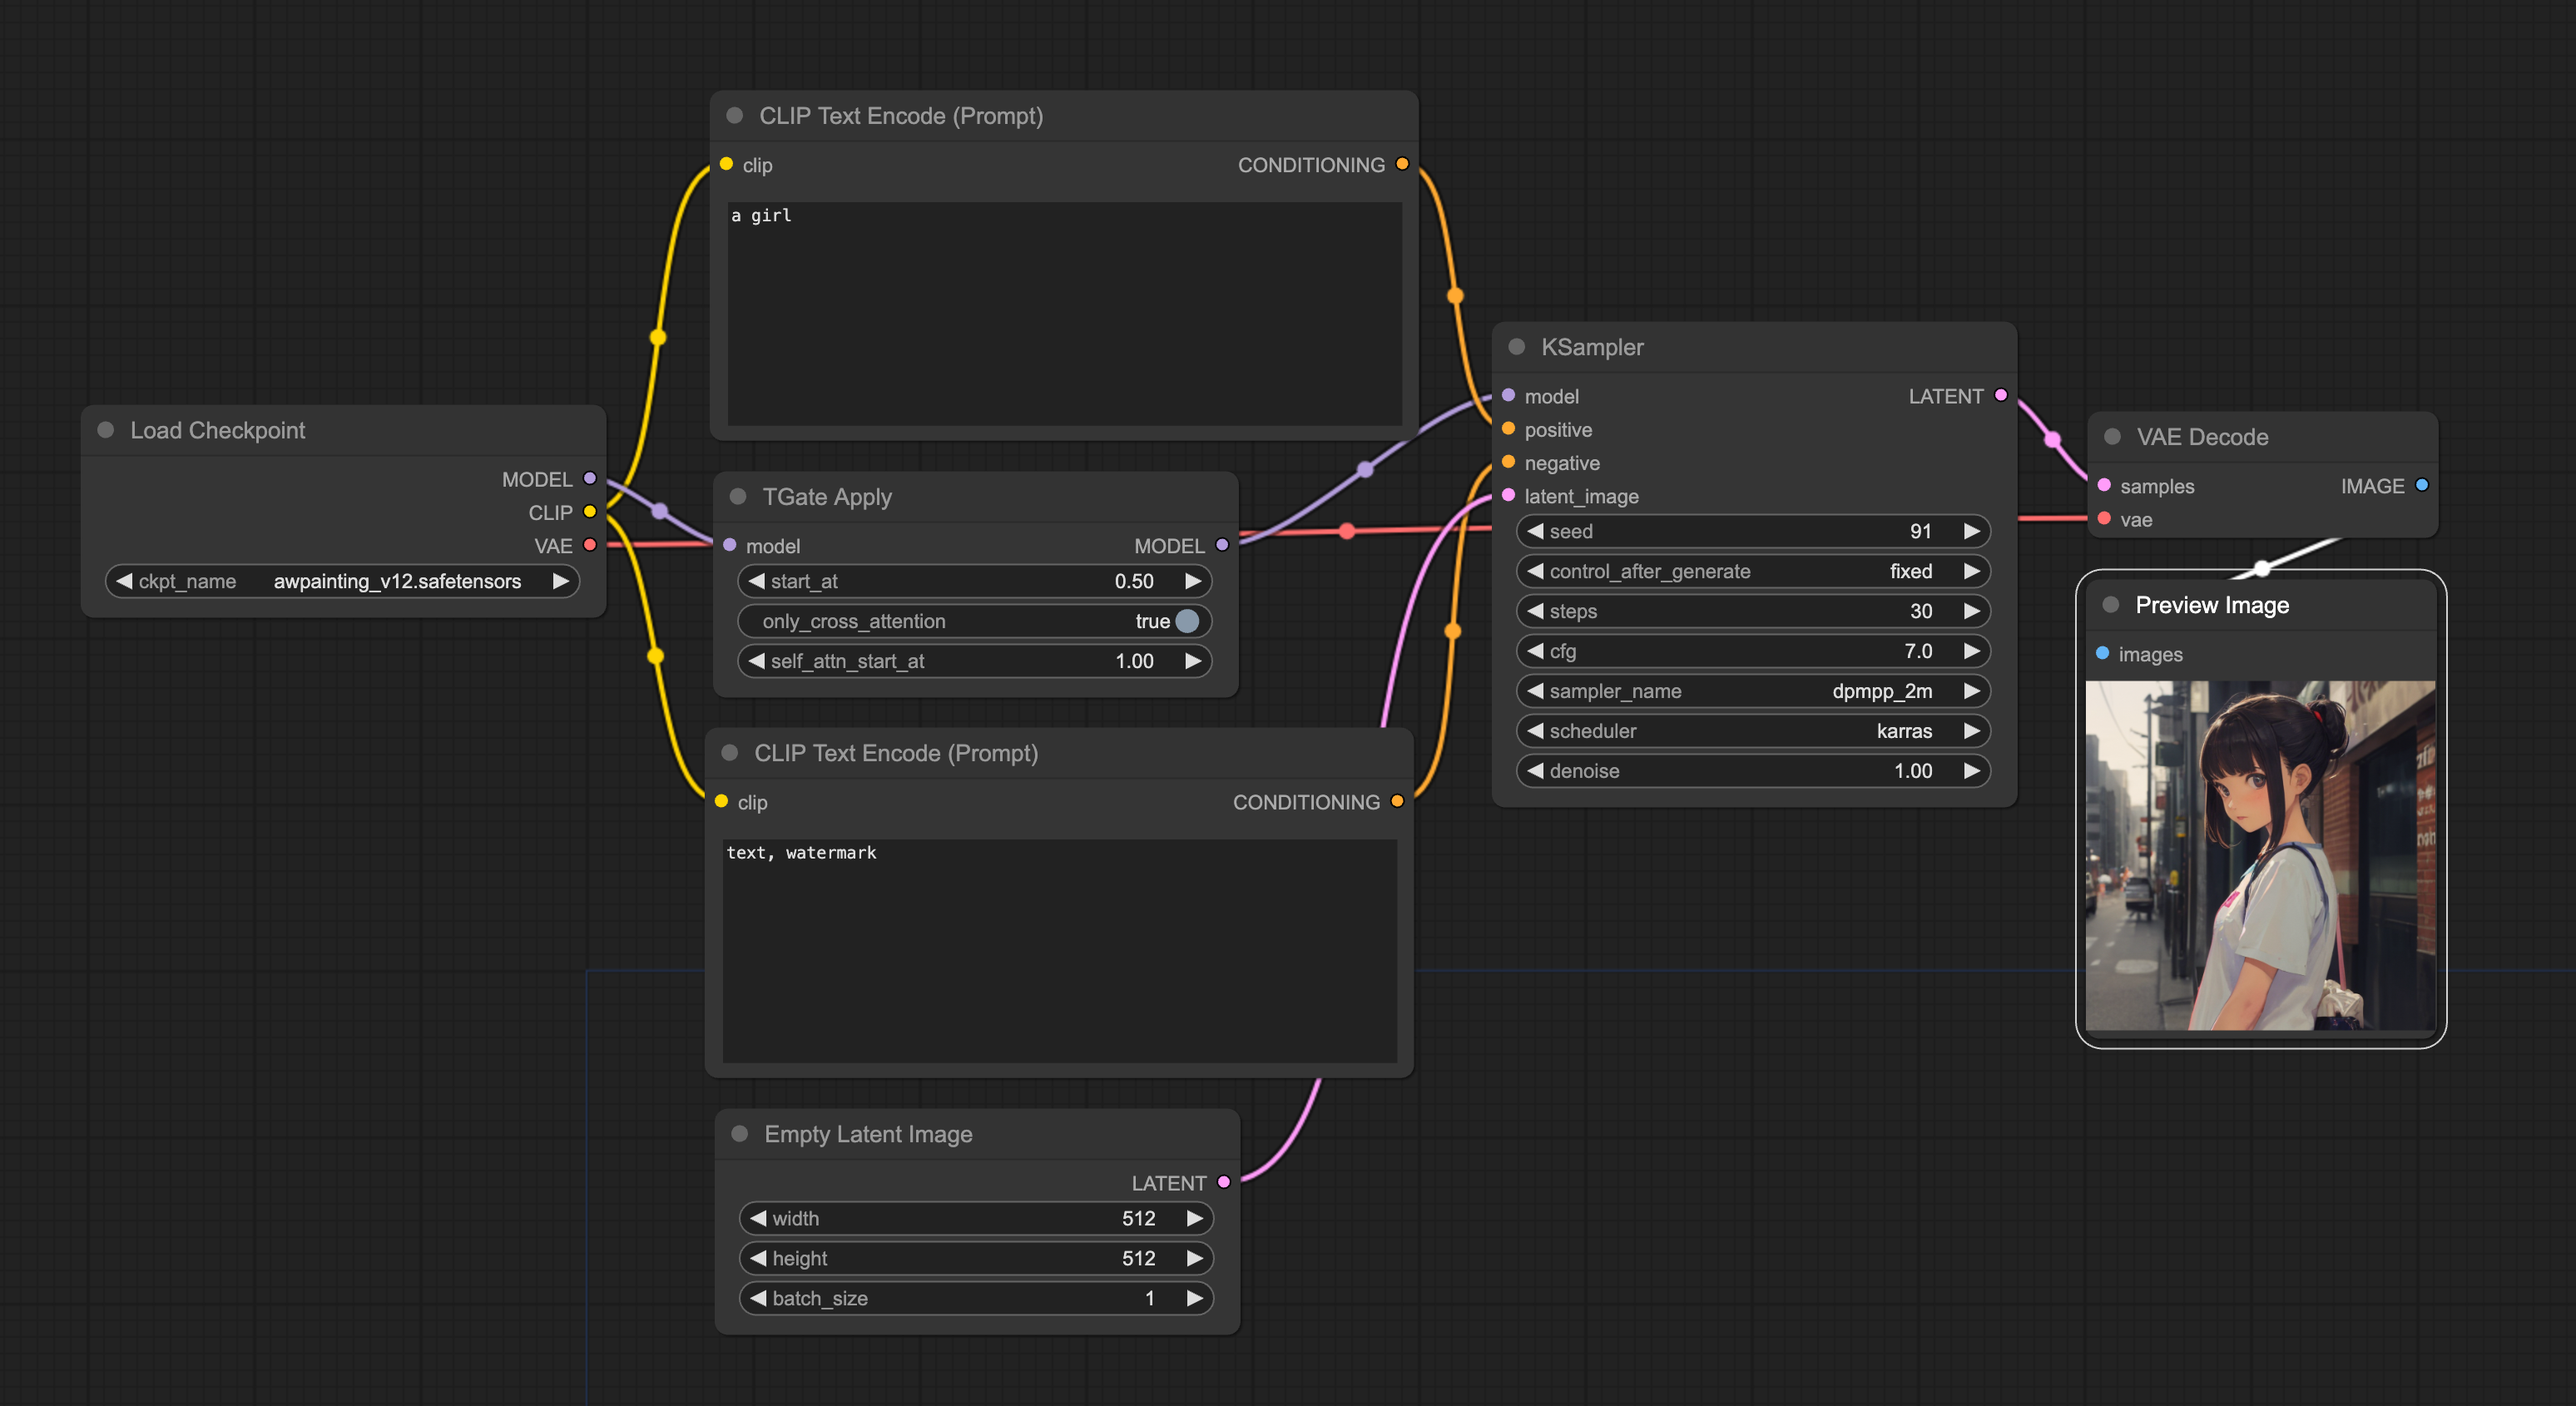
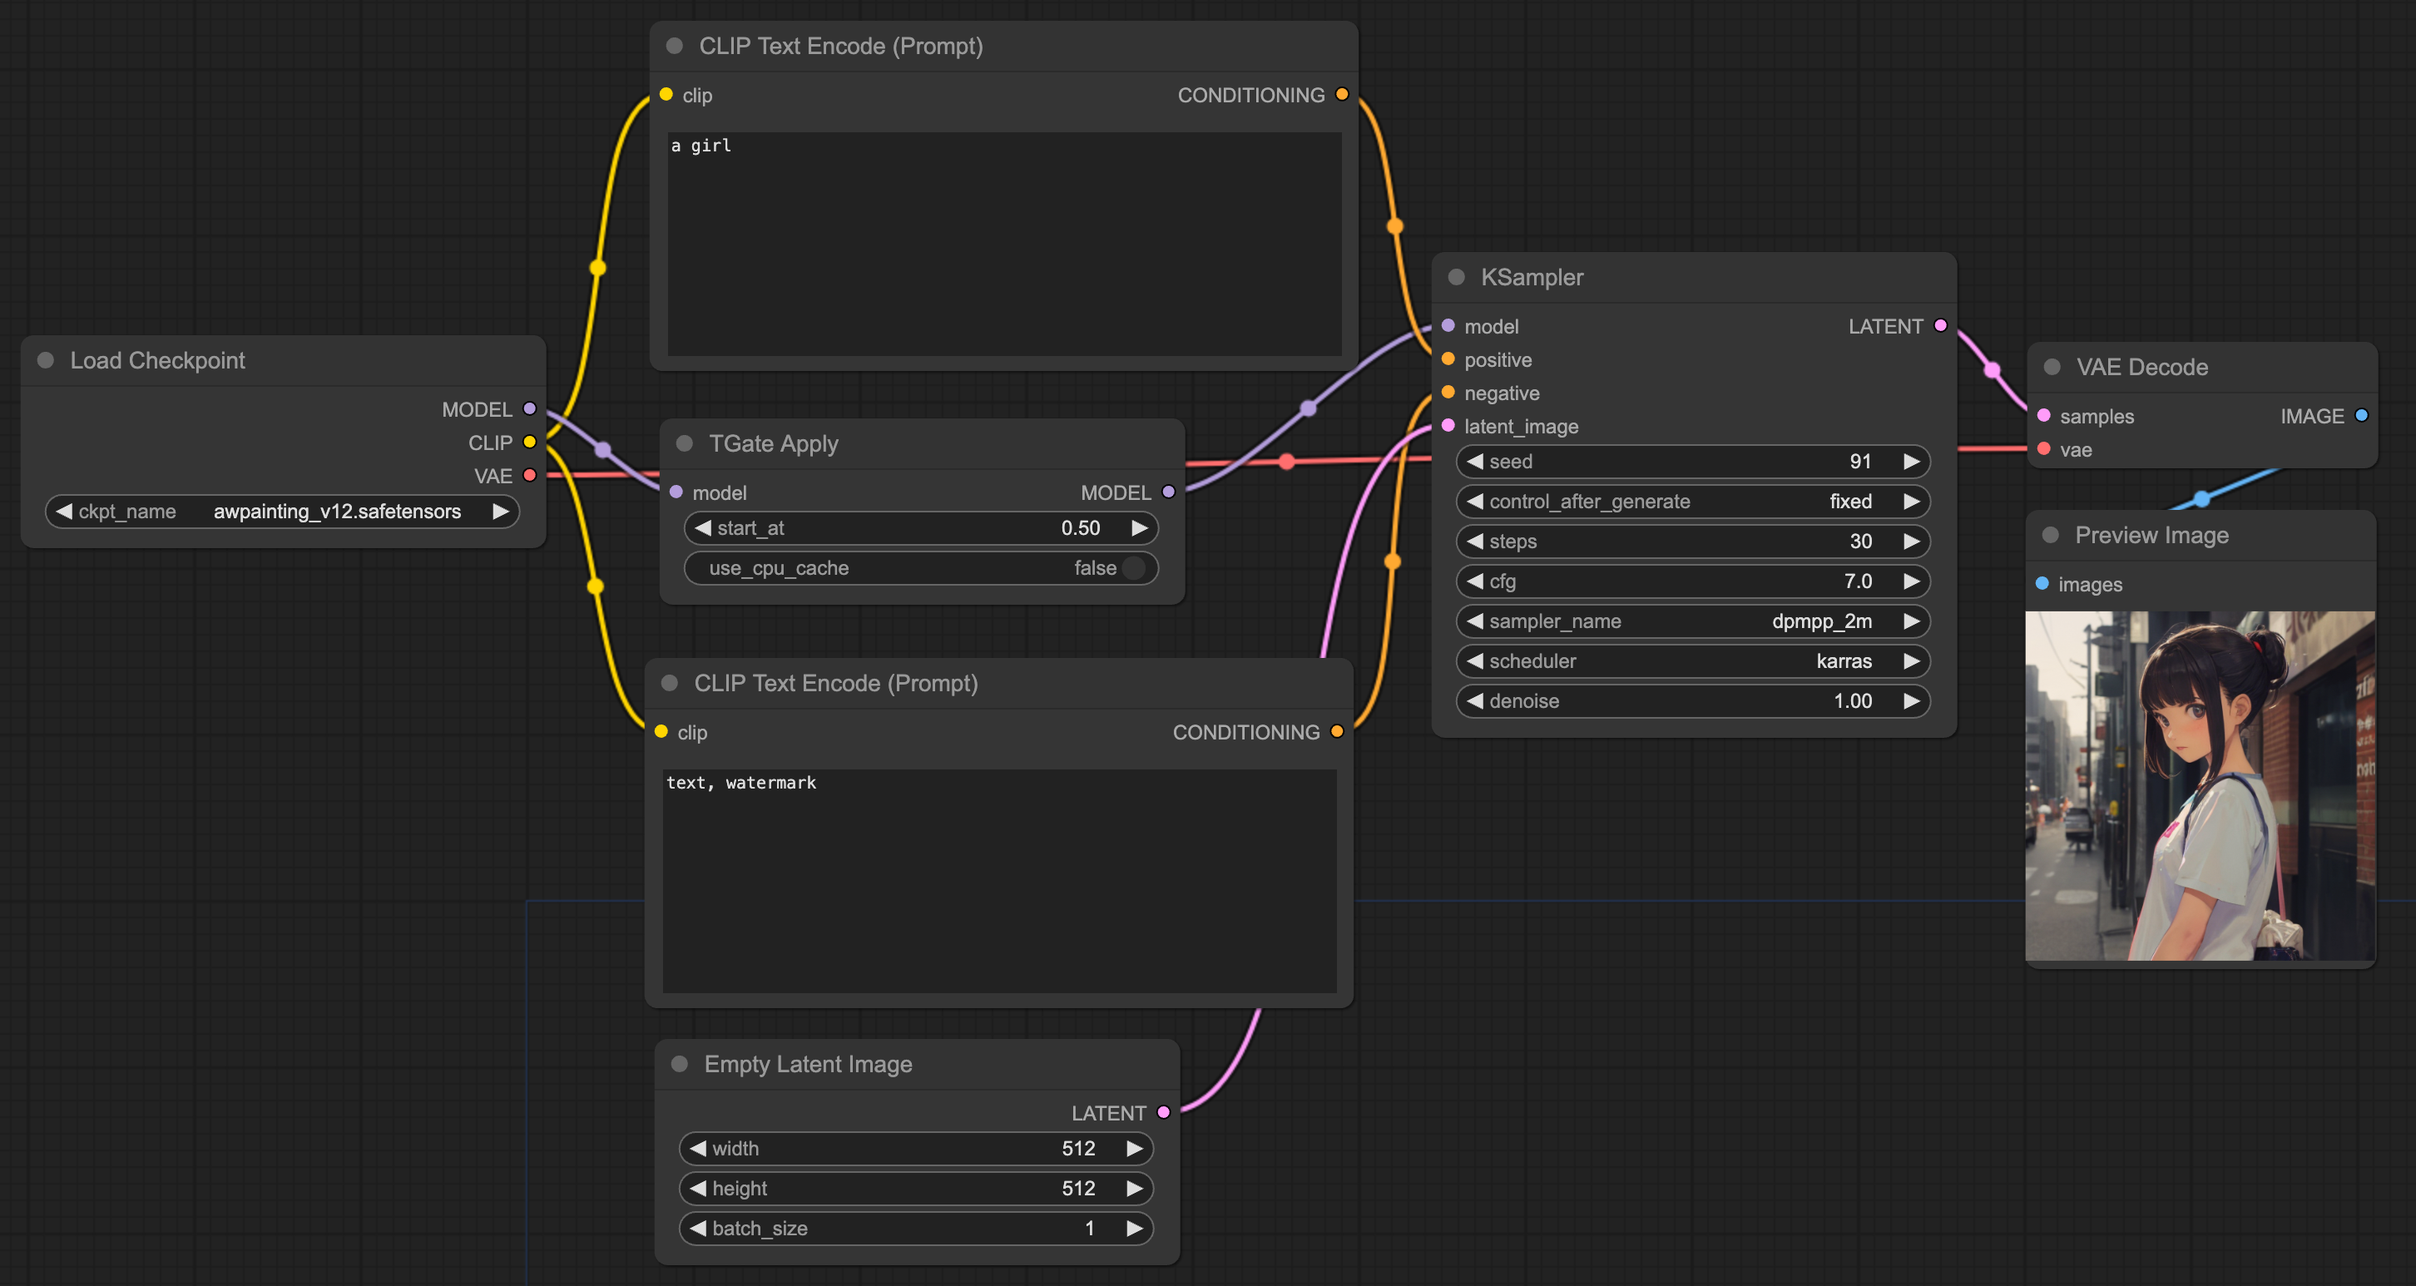
feat: add new node. Deprecated old monkey patch method

diff --git a/TGate.py b/TGate.py
@@ -1,14 +1,22 @@
 from functools import wraps
 from types import MethodType
 
+import torch
 
-def make_tgate_forward(sigma_gate=-1, sigma_gate_attn1=-1, only_cross_attention=True, use_cpu_cache=False):
+
+def make_tgate_forward(
+    sigma_gate=-1,
+    sigma_gate_attn1=-1,
+    only_cross_attention=True,
+    use_cpu_cache=False,
+):
     attn_cache = {}
 
     def tgate_forward(self, x, context=None, transformer_options={}):
         nonlocal attn_cache
         extra_options = {}
         tgate_enable = transformer_options.get("tgate_enable", False)
+        tgate_clear = transformer_options.get("tgate_clear", False)
         cond_or_uncond = transformer_options.get("cond_or_uncond", [1, 0])
         block = transformer_options.get("block", None)
         block_index = transformer_options.get("block_index", 0)
@@ -77,7 +85,10 @@ def make_tgate_forward(sigma_gate=-1, sigma_gate_attn1=-1, only_cross_attention=
                 for p in patch:
                     n = p(n, extra_options)
             if tgate_enable and not only_cross_attention:
-                attn_cache["attn1"] = (n.cpu() if use_cpu_cache else n, len(cond_or_uncond))  # TODO: reduce, cache times
+                attn_cache["attn1"] = (
+                    n.cpu() if use_cpu_cache else n,
+                    len(cond_or_uncond),
+                )  # TODO: reduce, cache times
 
         x += n
         if "middle_patch" in transformer_patches:
@@ -126,6 +137,8 @@ def make_tgate_forward(sigma_gate=-1, sigma_gate_attn1=-1, only_cross_attention=
 
             if tgate_enable:
                 attn_cache["attn2"] = (n.cpu() if use_cpu_cache else n, len(cond_or_uncond))
+        if tgate_clear:
+            attn_cache.clear()
 
         x += n
         if self.is_res:
@@ -160,7 +173,8 @@ def sampling_function_wrapper(fn):
             seed=seed,
             **kwargs,
         )
-    wrapper._tgate_cfg_decorated = True # type: ignore # flag to check monkey patch
+
+    wrapper._tgate_cfg_decorated = True  # type: ignore # flag to check monkey patch
 
     return wrapper
 
@@ -172,7 +186,7 @@ def monkey_patching_comfy_sampling_function():
     if original_sampling_function_ref is None:
         original_sampling_function_ref = samplers.sampling_function
     # Make sure to only patch once
-    if hasattr(samplers.sampling_function, '_tgate_cfg_decorated'):
+    if hasattr(samplers.sampling_function, "_tgate_cfg_decorated"):
         return
 
     samplers.sampling_function = sampling_function_wrapper(original_sampling_function_ref)
@@ -187,6 +201,138 @@ class TGateSamplerCfgRescaler:
         if sigma < self.sigma_gate:
             return None, cond, 1.0
         return uncond, cond, cond_scale
+
+
+class TGateProxy:
+    def __init__(self, model_sampling, sigma_gate=-1) -> None:
+        self.sigma_gate = sigma_gate
+        self.model_sampling = model_sampling
+
+    def __call__(self, apply_model, kwargs: dict):
+        input_x = kwargs["input"]
+        timestep_ = kwargs["timestep"]
+        cond_or_uncond = kwargs["cond_or_uncond"]  # [0|1]
+        c = kwargs["c"]
+        c["transformer_options"]["tgate_enable"] = True
+        sigma = timestep_[0].detach().cpu().item()
+
+        if sigma > self.sigma_gate:
+            return apply_model(input_x, timestep_, **c)
+
+        batch_chunks = len(cond_or_uncond)
+        outputs = []
+        input_x_chunks = input_x.chunk(batch_chunks)
+        timestep_chunks = timestep_.chunk(batch_chunks)
+        c_crossattn_chunks = c["c_crossattn"].chunk(batch_chunks)
+        t = self.model_sampling.timestep(timestep_[0].detach().cpu())
+        for i in cond_or_uncond:
+            i = min(i, batch_chunks - 1)
+            if i == 1:
+                outputs.append(torch.zeros_like(input_x_chunks[i], dtype=input_x.dtype, device=input_x.device))
+            else:
+                c["c_crossattn"] = c_crossattn_chunks[i]
+                c["transformer_options"]["cond_or_uncond"] = [i]
+                c["transformer_options"]["sigmas"] = c["transformer_options"]["sigmas"][i : i + 1]
+                c["transformer_options"]["tgate_clear"] = t == 0
+                outputs.append(apply_model(input_x_chunks[i], timestep_chunks[i], **c))
+        return torch.cat(outputs, dim=0)
+
+
+class TGateSamplerCFG:
+    def __init__(self, sigma_gate=-1):
+        self.sigma_gate = sigma_gate
+
+    def __call__(self, args: dict):
+        sigma = args["sigma"][0].detach().cpu().item()
+        if sigma < self.sigma_gate:
+            return args["cond"]
+        uncond_pred = args["uncond_denoised"]
+        cond_pred = args["cond_denoised"]
+        cond_scale = args["cond_scale"]
+        x = args["input"]
+        return x - (uncond_pred + (cond_pred - uncond_pred) * cond_scale)
+
+
+class TGateApplyAdvanced:
+    @classmethod
+    def INPUT_TYPES(cls):
+        return {
+            "required": {
+                "model": ("MODEL",),
+                "start_at": ("FLOAT", {"default": 1.0, "min": 0.0, "max": 1.0, "step": 0.01}),
+                "self_attn_start_at": ("FLOAT", {"default": 1.0, "min": 0.0, "max": 1.0, "step": 0.01}),
+                "only_cross_attention": ("BOOLEAN", {"default": True}),
+            },
+            "optional": {
+                "use_cpu_cache": ("BOOLEAN", {"default": False}),
+            },
+        }
+
+    RETURN_TYPES = ("MODEL",)
+    FUNCTION = "apply_tgate"
+    CATEGORY = "TGate"
+
+    def apply_tgate(
+        self,
+        model,
+        start_at=1.0,
+        self_attn_start_at=1.0,
+        only_cross_attention=True,
+        use_cpu_cache=False,
+    ):
+        model_clone = model.clone()
+        model_sampling = model_clone.get_model_object("model_sampling")
+        sigma_gate = model_sampling.percent_to_sigma(start_at)
+        sigma_gate_self_attn = model_sampling.percent_to_sigma(self_attn_start_at)
+
+        transformer_blocks = []
+        for n, m in model_clone.model.named_modules():
+            if not n.endswith("transformer_blocks"):
+                continue
+            for tb in m:
+                transformer_blocks.append(tb)
+
+        # We inject function into the transformer_blocks instances so that
+        # we can apply tgate without modifying the library source.
+        for tb in transformer_blocks:
+            tgate_forward = MethodType(
+                make_tgate_forward(
+                    sigma_gate,
+                    sigma_gate_attn1=sigma_gate_self_attn,
+                    only_cross_attention=only_cross_attention,
+                    use_cpu_cache=use_cpu_cache,
+                ),
+                tb,
+            )
+            tb._forward = tgate_forward
+
+        sigma_gate_disable_cfg = sigma_gate if only_cross_attention else min(sigma_gate_self_attn, sigma_gate)
+        model_clone.set_model_unet_function_wrapper(
+            TGateProxy(
+                sigma_gate=sigma_gate_disable_cfg,
+                model_sampling=model_sampling,
+            )
+        )
+
+        model_clone.set_model_sampler_cfg_function(
+            TGateSamplerCFG(sigma_gate_disable_cfg),
+            disable_cfg1_optimization=False,  # TODO: Consider whether to force enable cfg1_optimization
+        )
+        return (model_clone,)
+
+
+class TGateApplySimple(TGateApplyAdvanced):
+    @classmethod
+    def INPUT_TYPES(cls):
+        return {
+            "required": {
+                "model": ("MODEL",),
+                "start_at": ("FLOAT", {"default": 1.0, "min": 0.0, "max": 1.0, "step": 0.01}),
+            },
+            "optional": {
+                "use_cpu_cache": ("BOOLEAN", {"default": False}),
+            },
+        }
 
 
 class TGateApply:
@@ -244,8 +390,12 @@ class TGateApply:
 
 NODE_CLASS_MAPPINGS = {
     "TGateApply": TGateApply,
+    "TGateApplySimple": TGateApplySimple,
+    "TGateApplyAdvanced": TGateApplyAdvanced,
 }
 
 NODE_DISPLAY_NAME_MAPPINGS = {
-    "TGateApply": "TGate Apply",
+    "TGateApply": "TGate Apply(Deprecated)",
+    "TGateApplySimple": "TGate Apply",
+    "TGateApplyAdvanced": "TGate Apply Advanced",
 }

diff --git a/README.md b/README.md
@@ -19,7 +19,10 @@ Some of my other projects that may help you.
 
 
 ## :star2: Changelog
-- **[2024.5.06]**: add `use_cpu_cache`, reduce some GPU OOM promblem.
+- **[2024.5.06]**: 
+  - Add `use_cpu_cache`, reduce some GPU OOM promblem.
+  - Refactor apply node, Deprecated old monkey patching method node. The legacy one will be removed after few version. 
+  - Add a simple node and advanced node.
 - **[2024.4.30]** :wrench: Fixed an cond-only sampling bug that caused animatediff error. Thanks [pamparamm](https://github.com/pamparamm).
 - **[2024.4.29]** :wrench: `TL,DR`: Improved performance and T-GATE only works where it needs to work.
   - Fixed a bug that caused `TGateApply` to affect other places where the model is used, even if `TGateApply` is turned off.
@@ -68,7 +71,16 @@ git clone https://github.com/JettHu/ComfyUI_TGate
 
 ## :book: Nodes reference
 
-### TGateApply
+### TGate Apply
+
+#### Inputs
+- **model**, model loaded by `Load Checkpoint` and other MODEL loaders.
+
+#### Configuration parameters
+- **start_at**, this is the percentage of steps. Defines at what percentage point of the generation to start use the T-GATE cache.
+- **use_cpu_cache**: If multiple batches (animatediff) cause GPU OOM, you can set it to true, and T-GATE performance will decrease.
+
+### TGate Apply Advanced
 
 #### Inputs
 - **model**, model loaded by `Load Checkpoint` and other MODEL loaders.
@@ -76,7 +88,22 @@ git clone https://github.com/JettHu/ComfyUI_TGate
 #### Configuration parameters
 - **start_at**, this is the percentage of steps. Defines at what percentage point of the generation to start use the T-GATE cache.
 - **only_cross_attention**, **[RECOMMEND]** default is True, the effect is to cache only the output of cross-attention, ref to [issues](https://github.com/HaozheLiu-ST/T-GATE/issues/8#issuecomment-2061379798)
-- **use_cpu_cache**>: If multiple batches (animatediff) cause GPU OOM, you can set it to true, and T-GATE performance will decrease.
+- **use_cpu_cache**: If multiple batches (animatediff) cause GPU OOM, you can set it to true, and T-GATE performance will decrease.
+
+#### Optional configuration
+- **self_attn_start_at**, only takes effect when `only_cross_attention` is `false`, percentage of steps too. Defines at what percentage point of the generation to start use the T-GATE cache on latent self attnention.
+
+### TGate Apply(Deprecated)
+
+> This node is already deprecated, and will be removed after few version.
+
+#### Inputs
+- **model**, model loaded by `Load Checkpoint` and other MODEL loaders.
+
+#### Configuration parameters
+- **start_at**, this is the percentage of steps. Defines at what percentage point of the generation to start use the T-GATE cache.
+- **only_cross_attention**, **[RECOMMEND]** default is True, the effect is to cache only the output of cross-attention, ref to [issues](https://github.com/HaozheLiu-ST/T-GATE/issues/8#issuecomment-2061379798)
+- **use_cpu_cache**: If multiple batches (animatediff) cause GPU OOM, you can set it to true, and T-GATE performance will decrease.
 
 #### Optional configuration
 - **self_attn_start_at**, only takes effect when `only_cross_attention` is `false`, percentage of steps too. Defines at what percentage point of the generation to start use the T-GATE cache on latent self attnention.
@@ -108,7 +135,7 @@ The FID is calculated by [PytorchFID](https://github.com/mseitzer/pytorch-fid).
 ## :memo: TODO
 - [x] Result image quality is inconsistent with origin. Now cache attn2 (cross_attention) only.
 - [x] Implement a native version and no longer rely on git patch
-- [ ] Fully compatible with animatediff. Currently, both plugins hook `comfy.samplers.sampling_function`, T-Gate does not perform correctly. [refer to](https://github.com/JettHu/ComfyUI_TGate/issues/10#issuecomment-2095149176)
+- [x] Fully compatible with animatediff. Currently, both plugins hook `comfy.samplers.sampling_function`, T-Gate does not perform correctly. [refer to](https://github.com/JettHu/ComfyUI_TGate/issues/10#issuecomment-2095149176)
 - [ ] compatible with TiledDiffusion. [issue #11](https://github.com/JettHu/ComfyUI_TGate/issues/11)
 
 ## :mag: Common promblem
